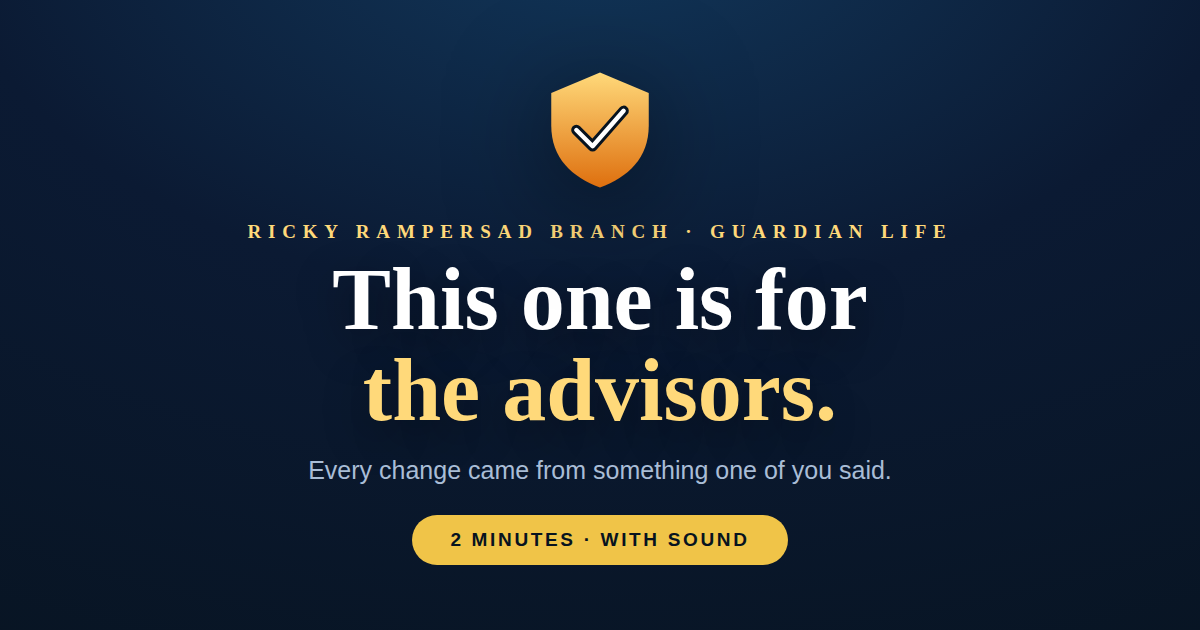
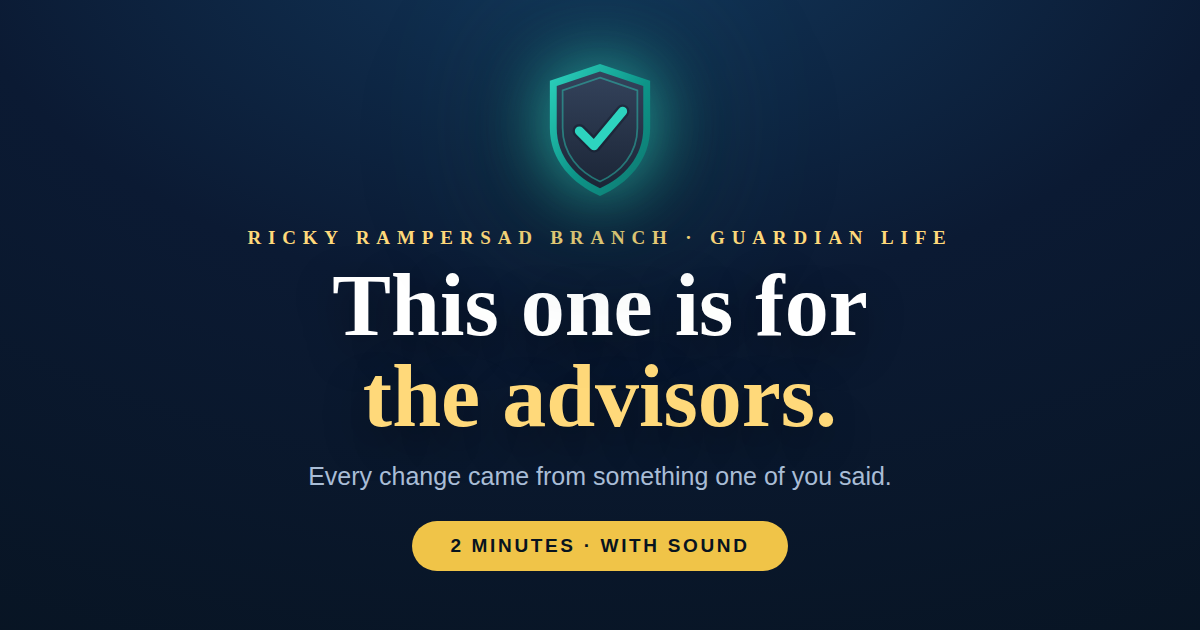
The branch's shield is the teal one, and it glows
I had used the gold check shield from the top of the branch home page. The
branch's actual mark is shield.svg in this repo — teal rim, slate body, teal
check — which is what the emails and this site already carry. Corrected in
the film's opening and close, on the letterhead in the letter scene, in the
page header and on the link-preview card.

It now carries the glow it should have had: a soft blur filter on the check
itself, a drop-shadow that breathes between 16px and 52px of teal, and a
halo behind it pulsing against that same beat. The rings expanding out of it
were gold; they are teal now, with a matching inner and outer shadow.

The check is a shorter path than the one it replaces, so its draw-on length
came down from 120 to 34 user units — otherwise it would sit invisible for
most of its own animation.

Claude-Session: https://claude.ai/code/session_01Apepwnd4q6xth81g6uAFN2

diff --git a/360enhancements-film.html b/360enhancements-film.html
@@ -55,13 +55,23 @@
   .cueR{opacity:0;transform:translateX(52px)}.cueR.in{opacity:1;transform:none;transition:all .6s cubic-bezier(.2,.8,.3,1.15)}
 
   /* ── the branch shield ── */
-  .mark{filter:drop-shadow(0 22px 60px rgba(0,0,0,.55))}
-  .on .mark{animation:markIn 1.15s cubic-bezier(.17,.89,.32,1.28) both}
+  .mark{filter:drop-shadow(0 0 20px rgba(45,212,191,.5)) drop-shadow(0 22px 60px rgba(0,0,0,.55))}
+  .on .mark{animation:markIn 1.15s cubic-bezier(.17,.89,.32,1.28) both,
+                      breathe 3.4s 1.2s ease-in-out infinite}
+  @keyframes breathe{
+    0%,100%{filter:drop-shadow(0 0 16px rgba(45,212,191,.40)) drop-shadow(0 22px 60px rgba(0,0,0,.55))}
+    50%    {filter:drop-shadow(0 0 52px rgba(45,212,191,.95)) drop-shadow(0 0 96px rgba(45,212,191,.35)) drop-shadow(0 22px 60px rgba(0,0,0,.55))}}
+  /* a halo behind it, breathing against the pulse so the shield never sits flat */
+  .halo{position:absolute;width:520px;height:520px;border-radius:50%;pointer-events:none;
+    background:radial-gradient(circle,rgba(45,212,191,.34),rgba(45,212,191,.08) 42%,transparent 68%)}
+  .on .halo{animation:halo 3.4s 1.2s ease-in-out infinite}
+  @keyframes halo{0%,100%{transform:scale(.86);opacity:.55}50%{transform:scale(1.12);opacity:1}}
   @keyframes markIn{0%{opacity:0;transform:scale(.45) rotate(-14deg)}100%{opacity:1;transform:none}}
-  .tickpath{stroke-dasharray:120;stroke-dashoffset:120}
+  .tickpath{stroke-dasharray:34;stroke-dashoffset:34}
   .on .tickpath{animation:draw .85s .55s ease-out forwards}
   @keyframes draw{to{stroke-dashoffset:0}}
-  .ring{position:absolute;border:3px solid rgba(240,196,72,.55);border-radius:50%;opacity:0}
+  .ring{position:absolute;border:3px solid rgba(45,212,191,.55);border-radius:50%;opacity:0;
+    box-shadow:0 0 26px rgba(45,212,191,.35),inset 0 0 26px rgba(45,212,191,.25)}
   .on .ring{animation:ripple 2.6s ease-out infinite}
   .on .ring.r2{animation-delay:.85s}.on .ring.r3{animation-delay:1.7s}
   @keyframes ripple{0%{width:210px;height:210px;opacity:.75}100%{width:760px;height:760px;opacity:0}}
@@ -240,19 +250,28 @@
   <div class="orb o1"></div><div class="orb o2"></div><div class="orb o3"></div>
 
   <svg width="0" height="0" style="position:absolute"><defs>
-    <linearGradient id="gh" x1="0" y1="0" x2="1" y2="1">
-      <stop offset="0%" stop-color="#f0c448"/><stop offset="60%" stop-color="#c9942c"/><stop offset="100%" stop-color="#7a5810"/>
+    <linearGradient id="slate" x1="0" y1="0" x2="0" y2="1">
+      <stop offset="0" stop-color="#34435C"/><stop offset="1" stop-color="#1B2536"/>
     </linearGradient>
+    <linearGradient id="tealg" x1="0" y1="0" x2="1" y2="1">
+      <stop offset="0" stop-color="#2DD4BF"/><stop offset="0.55" stop-color="#0D9488"/><stop offset="1" stop-color="#0F766E"/>
+    </linearGradient>
+    <filter id="softglow" x="-80%" y="-80%" width="260%" height="260%">
+      <feGaussianBlur stdDeviation="2.2" result="b"/>
+      <feMerge><feMergeNode in="b"/><feMergeNode in="b"/><feMergeNode in="SourceGraphic"/></feMerge>
+    </filter>
   </defs></svg>
 
   <!-- S1 — for the advisors -->
   <div class="scene" id="s1">
     <div class="relc">
-      <div class="ring"></div><div class="ring r2"></div><div class="ring r3"></div>
-      <svg class="mark" width="230" height="230" viewBox="0 0 88 88">
-        <path d="M44 5L77 19V41C77 63 63 76 44 83C25 76 11 63 11 41V19Z" fill="url(#gh)"/>
-        <path class="tickpath" d="M28 44L39 55L60 31" stroke="#07131f" stroke-width="7" fill="none" stroke-linecap="round" stroke-linejoin="round"/>
-        <path class="tickpath" d="M28 44L39 55L60 31" stroke="#fff" stroke-width="3" fill="none" stroke-linecap="round" stroke-linejoin="round"/>
+      <div class="halo"></div><div class="ring"></div><div class="ring r2"></div><div class="ring r3"></div>
+      <svg class="mark" width="200" height="240" viewBox="0 0 60 72">
+        <path d="M30 2.5 L55.5 11 V35 C55.5 51.5 44 63.5 30 69.5 C16 63.5 4.5 51.5 4.5 35 V11 Z" fill="url(#tealg)"/>
+        <path d="M30 6.2 L52 13.6 V35 C52 49.8 42 60.3 30 65.6 C18 60.3 8 49.8 8 35 V13.6 Z" fill="url(#slate)"/>
+        <path d="M30 9.4 L49 15.9 V35 C49 48.2 40.5 57.4 30 62.2 C19.5 57.4 11 48.2 11 35 V15.9 Z" fill="none" stroke="#2DD4BF" stroke-opacity="0.45" stroke-width="0.9"/>
+        <path class="tickpath" d="M19.5 36.5 L27 44 L41.5 26.5" fill="none" stroke="#0B1220" stroke-width="7" stroke-linecap="round" stroke-linejoin="round" stroke-opacity="0.35"/>
+        <path class="tickpath" d="M19.5 36.5 L27 44 L41.5 26.5" fill="none" stroke="#2DD4BF" stroke-width="4.6" stroke-linecap="round" stroke-linejoin="round" filter="url(#softglow)"/>
       </svg>
     </div>
     <div class="kicker rise d2" style="margin-top:36px">Ricky Rampersad Branch</div>
@@ -305,11 +324,13 @@
     <div style="display:flex;gap:70px;align-items:center;margin-top:30px">
       <div class="letter cue" id="r4a">
         <div class="lh">
-          <svg class="stamp" width="40" height="40" viewBox="0 0 88 88">
-            <path d="M44 5L77 19V41C77 63 63 76 44 83C25 76 11 63 11 41V19Z" fill="url(#gh)"/>
-            <path d="M28 44L39 55L60 31" stroke="#07131f" stroke-width="7" fill="none" stroke-linecap="round" stroke-linejoin="round"/>
-            <path d="M28 44L39 55L60 31" stroke="#fff" stroke-width="3" fill="none" stroke-linecap="round" stroke-linejoin="round"/>
-          </svg>
+          <svg class="stamp" width="34" height="41" viewBox="0 0 60 72">
+        <path d="M30 2.5 L55.5 11 V35 C55.5 51.5 44 63.5 30 69.5 C16 63.5 4.5 51.5 4.5 35 V11 Z" fill="url(#tealg)"/>
+        <path d="M30 6.2 L52 13.6 V35 C52 49.8 42 60.3 30 65.6 C18 60.3 8 49.8 8 35 V13.6 Z" fill="url(#slate)"/>
+        <path d="M30 9.4 L49 15.9 V35 C49 48.2 40.5 57.4 30 62.2 C19.5 57.4 11 48.2 11 35 V15.9 Z" fill="none" stroke="#2DD4BF" stroke-opacity="0.45" stroke-width="0.9"/>
+        <path d="M19.5 36.5 L27 44 L41.5 26.5" fill="none" stroke="#0B1220" stroke-width="7" stroke-linecap="round" stroke-linejoin="round" stroke-opacity="0.35"/>
+        <path d="M19.5 36.5 L27 44 L41.5 26.5" fill="none" stroke="#2DD4BF" stroke-width="4.6" stroke-linecap="round" stroke-linejoin="round" filter="url(#softglow)"/>
+      </svg>
           <div><b>Ricky Rampersad Branch</b><span>Guardian Life of the Caribbean</span></div>
         </div>
         <div class="ln"></div><div class="ln"></div><div class="ln"></div><div class="ln"></div><div class="ln"></div><div class="ln"></div><div class="ln"></div>
@@ -421,11 +442,13 @@
   <!-- S11 — close -->
   <div class="scene" id="s11">
     <div class="relc">
-      <div class="ring"></div><div class="ring r2"></div>
-      <svg class="mark" width="176" height="176" viewBox="0 0 88 88">
-        <path d="M44 5L77 19V41C77 63 63 76 44 83C25 76 11 63 11 41V19Z" fill="url(#gh)"/>
-        <path class="tickpath" d="M28 44L39 55L60 31" stroke="#07131f" stroke-width="7" fill="none" stroke-linecap="round" stroke-linejoin="round"/>
-        <path class="tickpath" d="M28 44L39 55L60 31" stroke="#fff" stroke-width="3" fill="none" stroke-linecap="round" stroke-linejoin="round"/>
+      <div class="halo"></div><div class="ring"></div><div class="ring r2"></div>
+      <svg class="mark" width="155" height="186" viewBox="0 0 60 72">
+        <path d="M30 2.5 L55.5 11 V35 C55.5 51.5 44 63.5 30 69.5 C16 63.5 4.5 51.5 4.5 35 V11 Z" fill="url(#tealg)"/>
+        <path d="M30 6.2 L52 13.6 V35 C52 49.8 42 60.3 30 65.6 C18 60.3 8 49.8 8 35 V13.6 Z" fill="url(#slate)"/>
+        <path d="M30 9.4 L49 15.9 V35 C49 48.2 40.5 57.4 30 62.2 C19.5 57.4 11 48.2 11 35 V15.9 Z" fill="none" stroke="#2DD4BF" stroke-opacity="0.45" stroke-width="0.9"/>
+        <path class="tickpath" d="M19.5 36.5 L27 44 L41.5 26.5" fill="none" stroke="#0B1220" stroke-width="7" stroke-linecap="round" stroke-linejoin="round" stroke-opacity="0.35"/>
+        <path class="tickpath" d="M19.5 36.5 L27 44 L41.5 26.5" fill="none" stroke="#2DD4BF" stroke-width="4.6" stroke-linecap="round" stroke-linejoin="round" filter="url(#softglow)"/>
       </svg>
     </div>
     <div class="huge rise d2" style="margin-top:26px;font-size:92px">Ricky Rampersad Branch</div>

diff --git a/360enhancements.html b/360enhancements.html
@@ -32,7 +32,7 @@
 
   header{padding:34px 0 8px}
   .brand{display:flex;align-items:center;gap:13px}
-  .brand svg{width:42px;height:42px;flex:none}
+  .brand svg{width:38px;height:46px;flex:none;filter:drop-shadow(0 0 14px rgba(45,212,191,.55))}
   .brand b{display:block;font:600 17px/1.15 var(--serif);color:#fff}
   .brand span{display:block;font-size:10px;letter-spacing:.22em;text-transform:uppercase;color:var(--teal2);font-weight:700;margin-top:3px}
   h1{font:800 clamp(34px,7vw,62px)/1.05 var(--serif);margin:30px 0 0;letter-spacing:-.02em;color:#fff}
@@ -123,13 +123,18 @@
 
   <header>
     <div class="brand">
-      <svg viewBox="0 0 88 88" aria-hidden="true">
-        <defs><linearGradient id="gh" x1="0" y1="0" x2="1" y2="1">
-          <stop offset="0%" stop-color="#f0c448"/><stop offset="60%" stop-color="#c9942c"/><stop offset="100%" stop-color="#7a5810"/>
-        </linearGradient></defs>
-        <path d="M44 5L77 19V41C77 63 63 76 44 83C25 76 11 63 11 41V19Z" fill="url(#gh)"/>
-        <path d="M28 44L39 55L60 31" stroke="#07131f" stroke-width="7" fill="none" stroke-linecap="round" stroke-linejoin="round"/>
-        <path d="M28 44L39 55L60 31" stroke="#fff" stroke-width="3" fill="none" stroke-linecap="round" stroke-linejoin="round"/>
+      <svg viewBox="0 0 60 72" aria-hidden="true">
+        <defs>
+          <linearGradient id="slate" x1="0" y1="0" x2="0" y2="1">
+            <stop offset="0" stop-color="#34435C"/><stop offset="1" stop-color="#1B2536"/></linearGradient>
+          <linearGradient id="tealg" x1="0" y1="0" x2="1" y2="1">
+            <stop offset="0" stop-color="#2DD4BF"/><stop offset="0.55" stop-color="#0D9488"/><stop offset="1" stop-color="#0F766E"/></linearGradient>
+        </defs>
+        <path d="M30 2.5 L55.5 11 V35 C55.5 51.5 44 63.5 30 69.5 C16 63.5 4.5 51.5 4.5 35 V11 Z" fill="url(#tealg)"/>
+        <path d="M30 6.2 L52 13.6 V35 C52 49.8 42 60.3 30 65.6 C18 60.3 8 49.8 8 35 V13.6 Z" fill="url(#slate)"/>
+        <path d="M30 9.4 L49 15.9 V35 C49 48.2 40.5 57.4 30 62.2 C19.5 57.4 11 48.2 11 35 V15.9 Z" fill="none" stroke="#2DD4BF" stroke-opacity="0.45" stroke-width="0.9"/>
+        <path d="M19.5 36.5 L27 44 L41.5 26.5" fill="none" stroke="#0B1220" stroke-width="7" stroke-linecap="round" stroke-linejoin="round" stroke-opacity="0.35"/>
+        <path d="M19.5 36.5 L27 44 L41.5 26.5" fill="none" stroke="#2DD4BF" stroke-width="4.6" stroke-linecap="round" stroke-linejoin="round"/>
       </svg>
       <div><b>Ricky Rampersad Branch</b><span>Guardian Life of the Caribbean</span></div>
     </div>
